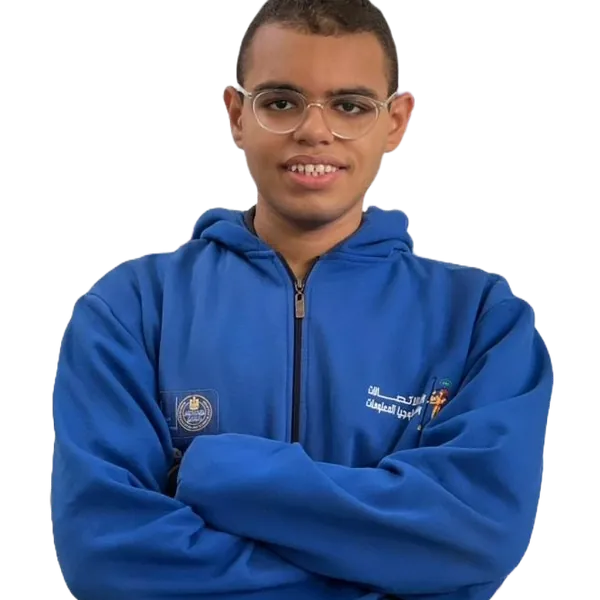
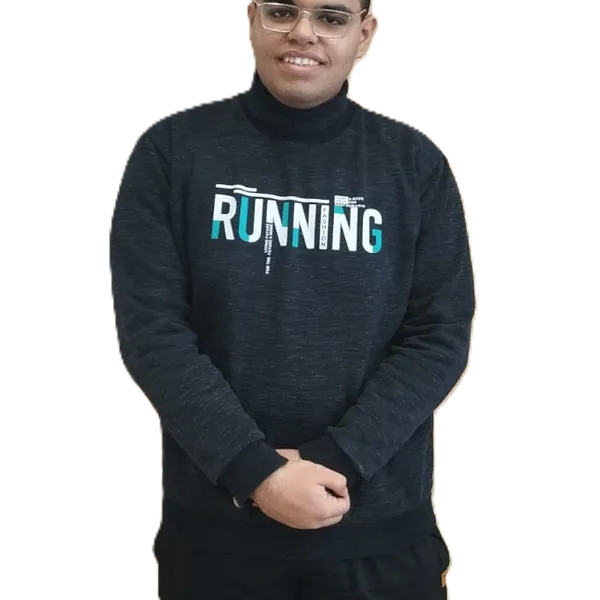
feat(assets): integrate updated profile photo me.png with AVIF, WebP, and PNG fallback

diff --git a/src/components/sections/Hero.jsx b/src/components/sections/Hero.jsx
@@ -11,6 +11,7 @@ import Pill from "../common/Pill";
 import { HeroParticles } from "../common/Background";
 import avatarWebp from "../../assets/me.webp";
 import avatarAvif from "../../assets/me.avif";
+import avatarPng from "../../assets/me.png";
 import {
   LuArrowDownRight,
   LuFileText,
@@ -176,7 +177,7 @@ export default function Hero({ onOpenResume }) {
                 <source srcSet={avatarAvif} type="image/avif" />
                 <source srcSet={avatarWebp} type="image/webp" />
                 <img
-                  src={avatarWebp}
+                  src={avatarPng}
                   alt="Portrait photo of Mohamed Eldeeb"
                   width={600}
                   height={600}
